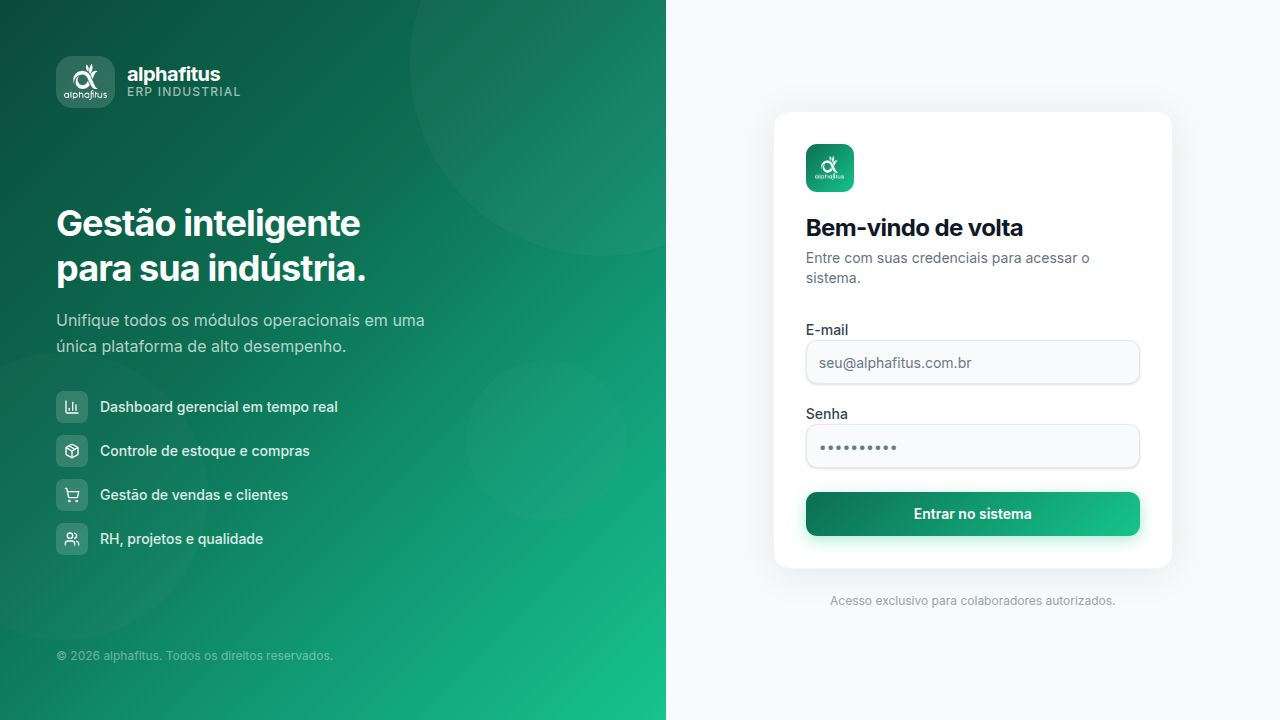
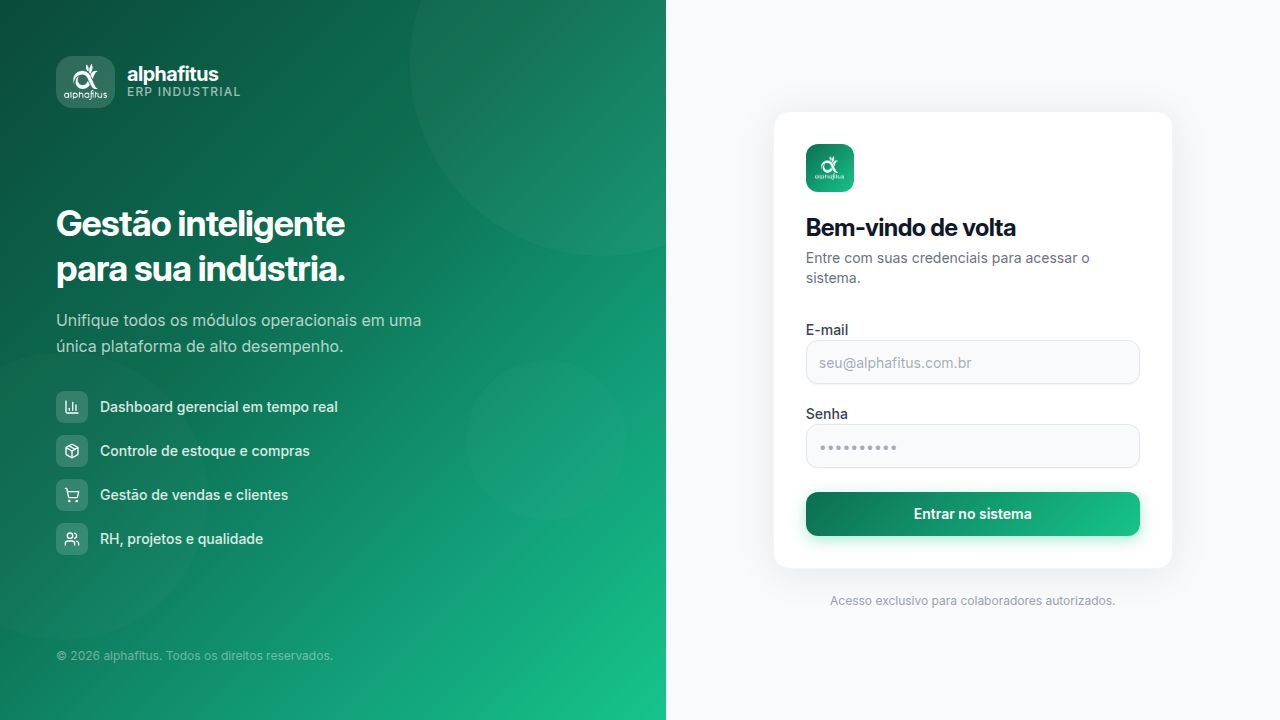
feat: let managers see and choose which modules appear in the executive report
Task: Let managers see which modules are included in the executive report

## What changed

### DB Schema (lib/db/src/schema/report-schedules.ts)
- Added `modules` JSON column to `report_schedules` table (nullable ReportModule[])
- Exported `REPORT_MODULES` const and `ReportModule` type
- Ran `pnpm --filter @user/db run push` to apply migration

### OpenAPI spec (lib/api-spec/openapi.yaml)
- Added optional `modules` array field (enum of 6 values) to both `ReportSchedule` and
  `ReportScheduleInput` schemas; ran codegen to regenerate hooks and Zod schemas

### API routes (artifacts/api-server/src/routes/relatorios.ts)
- POST + PUT /relatorios/schedules: accept, validate, and store `modules` from body
- Server-side validation rejects any module value not in the allowed enum
- Null stored when modules array is empty (backward-compatible — means "all modules")

### PDF builder (artifacts/api-server/src/routes/relatorios-pdf.ts)
- Added `modules?: string[] | null` to `PdfOptions`; empty/null → all modules active
- Added `inc(m)` helper to gate each section on its module
- "Indicadores Financeiros" + "Tendência Financeira" gated on `inc("financeiro")`
- Operational KPIs filtered per module (vendas, estoque, compras, rh, projetos)
- "Top 5 Clientes" gated on `inc("vendas")`, "Top 5 Produtos" on `inc("estoque")`

### Report scheduler (artifacts/api-server/src/lib/report-scheduler.ts)
- Fixed critical gap: `runScheduledSend` now accepts and passes `modules` to
[…]

diff --git a/artifacts/api-server/src/routes/relatorios-pdf.ts b/artifacts/api-server/src/routes/relatorios-pdf.ts
@@ -14,10 +14,14 @@ import PDFDocument from "pdfkit";
 
 type Period = "this_month" | "last_month" | "this_quarter" | "this_year";
 
+export const ALL_REPORT_MODULES = ["financeiro", "vendas", "estoque", "compras", "rh", "projetos"] as const;
+export type ReportModuleKey = typeof ALL_REPORT_MODULES[number];
+
 export interface PdfOptions {
   companyName?: string;
   logoBase64?: string | null;
   includeHeader?: boolean;
+  modules?: string[] | null;
 }
 
 const MONTH_LABELS = [
@@ -97,6 +101,12 @@ export async function buildReportPdf(period: Period, options: PdfOptions = {}): 
 
   const companyName = options.companyName?.trim() || "NEXUS ERP";
   const includeHeader = options.includeHeader !== false;
+
+  // Determine active modules — empty/null means all
+  const activeModules: Set<string> = (options.modules && options.modules.length > 0)
+    ? new Set(options.modules)
+    : new Set(ALL_REPORT_MODULES);
+  const inc = (m: string) => activeModules.has(m);
 
   let logoBuffer: Buffer | null = null;
   let logoFormat: string = "PNG";
@@ -324,55 +334,68 @@ export async function buildReportPdf(period: Period, options: PdfOptions = {}): 
 
     // ── Page 1 content ────────────────────────────────────────────────────────
 
-    // KPI 2-column grid — financial
-    sectionTitle("Indicadores Financeiros");
-
     const col1X = MARGIN;
     const col2X = MARGIN + (CONTENT_W - 8) / 2 + 8;
     const BOX_H = 52;
 
-    checkPageBreak(BOX_H * 2 + 16);
-    kpiBox(col1X, y, "Receita do Período", fmtBRL(revenueTotal), `vs. ant.: ${pctChange(revCur, revPrev)}`, CLR_GREEN);
-    kpiBox(col2X, y, "Despesas do Período", fmtBRL(expenseTotal), `vs. ant.: ${pctChange(expCur, expPrev)}`, CLR_RED);
-    y += BOX_H + 8;
+    // KPI 2-column grid — financial
+    if (inc("financeiro")) {
+      sectionTitle("Indicadores Financeiros");
 
-    const netColor = net >= 0 ? CLR_GREEN : CLR_RED;
-    const netLabel = net >= 0 ? "▲ Resultado Positivo" : "▼ Resultado Negativo";
-    kpiBox(col1X, y, "Saldo Líquido (Receita – Despesas)", fmtBRL(netBalance), netLabel, netColor);
-    y += BOX_H + 14;
+      checkPageBreak(BOX_H * 2 + 16);
+      kpiBox(col1X, y, "Receita do Período", fmtBRL(revenueTotal), `vs. ant.: ${pctChange(revCur, revPrev)}`, CLR_GREEN);
+      kpiBox(col2X, y, "Despesas do Período", fmtBRL(expenseTotal), `vs. ant.: ${pctChange(expCur, expPrev)}`, CLR_RED);
+      y += BOX_H + 8;
 
-    // Trend chart
-    sectionTitle("Tendência Financeira — Últimos 6 Meses");
-    checkPageBreak(110);
-    const chartH = drawBarChart(monthlyTrend, y);
-    y += chartH + 6;
+      const netColor = net >= 0 ? CLR_GREEN : CLR_RED;
+      const netLabel = net >= 0 ? "▲ Resultado Positivo" : "▼ Resultado Negativo";
+      kpiBox(col1X, y, "Saldo Líquido (Receita – Despesas)", fmtBRL(netBalance), netLabel, netColor);
+      y += BOX_H + 14;
 
-    // KPI grid — operational
-    sectionTitle("Indicadores Operacionais");
+      // Trend chart
+      sectionTitle("Tendência Financeira — Últimos 6 Meses");
+      checkPageBreak(110);
+      const chartH = drawBarChart(monthlyTrend, y);
+      y += chartH + 6;
+    }
 
+    // KPI grid — operational (filter by active modules)
     const opKpis = [
-      { label: "Pedidos em Aberto (backlog)", value: String(openSalesRow[0]?.count ?? 0), sub: "status: rascunho ou confirmado", color: CLR_BLUE_MID },
-      { label: "Novos Pedidos no Período", value: String(newSalesRow[0]?.count ?? 0), sub: "excluindo cancelados", color: CLR_BLUE },
-      { label: "Produtos com Estoque Baixo", value: String(lowStockRow[0]?.count ?? 0), sub: "abaixo do estoque mínimo", color: lowStockRow[0]?.count ? CLR_AMBER : CLR_GREEN },
-      { label: "Compras Pendentes", value: String(pendingPurchaseRow[0]?.count ?? 0), sub: "rascunho ou enviado", color: CLR_AMBER },
-      { label: "Funcionários Ativos", value: String(activeEmployeesRow[0]?.count ?? 0), sub: "colaboradores em atividade", color: CLR_BLUE_MID },
-      { label: "Projetos Ativos", value: String(activeProjectsRow[0]?.count ?? 0), sub: "projetos em andamento", color: CLR_BLUE },
+      ...(inc("vendas") ? [
+        { label: "Pedidos em Aberto (backlog)", value: String(openSalesRow[0]?.count ?? 0), sub: "status: rascunho ou confirmado", color: CLR_BLUE_MID },
+        { label: "Novos Pedidos no Período", value: String(newSalesRow[0]?.count ?? 0), sub: "excluindo cancelados", color: CLR_BLUE },
+      ] : []),
+      ...(inc("estoque") ? [
+        { label: "Produtos com Estoque Baixo", value: String(lowStockRow[0]?.count ?? 0), sub: "abaixo do estoque mínimo", color: lowStockRow[0]?.count ? CLR_AMBER : CLR_GREEN },
+      ] : []),
+      ...(inc("compras") ? [
+        { label: "Compras Pendentes", value: String(pendingPurchaseRow[0]?.count ?? 0), sub: "rascunho ou enviado", color: CLR_AMBER },
+      ] : []),
+      ...(inc("rh") ? [
+        { label: "Funcionários Ativos", value: String(activeEmployeesRow[0]?.count ?? 0), sub: "colaboradores em atividade", color: CLR_BLUE_MID },
+      ] : []),
+      ...(inc("projetos") ? [
+        { label: "Projetos Ativos", value: String(activeProjectsRow[0]?.count ?? 0), sub: "projetos em andamento", color: CLR_BLUE },
+      ] : []),
     ];
 
-    for (let i = 0; i < opKpis.length; i += 2) {
-      checkPageBreak(BOX_H + 8);
-      const left = opKpis[i];
-      const right = opKpis[i + 1];
-      kpiBox(col1X, y, left.label, left.value, left.sub, left.color);
-      if (right) {
-        kpiBox(col2X, y, right.label, right.value, right.sub, right.color);
+    if (opKpis.length > 0) {
+      sectionTitle("Indicadores Operacionais");
+      for (let i = 0; i < opKpis.length; i += 2) {
+        checkPageBreak(BOX_H + 8);
+        const left = opKpis[i];
+        const right = opKpis[i + 1];
+        kpiBox(col1X, y, left.label, left.value, left.sub, left.color);
+        if (right) {
+          kpiBox(col2X, y, right.label, right.value, right.sub, right.color);
+        }
+        y += BOX_H + 8;
       }
-      y += BOX_H + 8;
+      y += 6;
     }
-    y += 6;
 
     // Top 5 Clients table
-    if (topClientRows.length > 0) {
+    if (inc("vendas") && topClientRows.length > 0) {
       sectionTitle("Top 5 Clientes por Receita no Período");
 
       const colNo   = { label: "#",        x: MARGIN,       w: 22,                  align: "center" as const };
@@ -397,7 +420,7 @@ export async function buildReportPdf(period: Period, options: PdfOptions = {}): 
     }
 
     // Top 5 Products table
-    if (topProductRows.length > 0) {
+    if (inc("estoque") && topProductRows.length > 0) {
       sectionTitle("Top 5 Produtos por Movimentação no Período");
 
       const colNo   = { label: "#",             x: MARGIN,      w: 22,              align: "center" as const };

diff --git a/artifacts/erp/src/pages/relatorios.tsx b/artifacts/erp/src/pages/relatorios.tsx
@@ -86,7 +86,7 @@ import {
   useGetGoalAlertSettings,
   useUpdateGoalAlertSettings,
 } from "@workspace/api-client-react";
-import type { ReportSchedule } from "@workspace/api-client-react";
+import type { ReportSchedule, ReportScheduleInputModulesItem } from "@workspace/api-client-react";
 import { useToast } from "@/hooks/use-toast";
 import { useQueryClient } from "@tanstack/react-query";
 
@@ -997,6 +997,16 @@ const PERIOD_OPTIONS = [
   { value: "this_year", label: "Este ano" },
 ];
 
+const MODULE_OPTIONS = [
+  { value: "financeiro", label: "Financeiro" },
+  { value: "vendas",     label: "Vendas" },
+  { value: "estoque",    label: "Estoque" },
+  { value: "compras",    label: "Compras" },
+  { value: "rh",         label: "RH" },
+  { value: "projetos",   label: "Projetos" },
+] as const;
+const ALL_MODULE_VALUES = MODULE_OPTIONS.map((m) => m.value);
+
 function ScheduleDialog({
   schedule,
   onClose,
@@ -1015,6 +1025,17 @@ function ScheduleDialog({
   const [subject, setSubject] = useState(schedule?.subject ?? "Relatório Executivo — NEXUS ERP");
   const [message, setMessage] = useState(schedule?.message ?? "");
   const [active, setActive] = useState(schedule?.active ?? true);
+  const [modules, setModules] = useState<string[]>(
+    schedule?.modules && (schedule.modules as string[]).length > 0
+      ? (schedule.modules as string[])
+      : ALL_MODULE_VALUES,
+  );
+
+  function toggleModule(value: string) {
+    setModules((prev) =>
+      prev.includes(value) ? prev.filter((m) => m !== value) : [...prev, value],
+    );
+  }
 
   const { toast } = useToast();
   const queryClient = useQueryClient();
@@ -1056,6 +1077,7 @@ function ScheduleDialog({
       subject: subject.trim(),
       message: message.trim() || undefined,
       active,
+      modules: modules.length < ALL_MODULE_VALUES.length ? modules as ReportScheduleInputModulesItem[] : undefined,
     };
     if (isEdit) {
       updateSchedule({ id: schedule!.id, data: payload });
@@ -1167,6 +1189,31 @@ function ScheduleDialog({
           />
         </div>
 
+        <div className="space-y-2">
+          <Label>Módulos incluídos no relatório</Label>
+          <div className="grid grid-cols-3 gap-2">
+            {MODULE_OPTIONS.map((mod) => (
+              <div key={mod.value} className="flex items-center gap-2">
+                <Checkbox
+                  id={`mod-${mod.value}`}
+                  checked={modules.includes(mod.value)}
+                  onCheckedChange={() => toggleModule(mod.value)}
+                />
+                <Label htmlFor={`mod-${mod.value}`} className="cursor-pointer font-normal">
+                  {mod.label}
+                </Label>
+              </div>
+            ))}
+          </div>
+          <p className="text-xs text-muted-foreground">
+            {modules.length === ALL_MODULE_VALUES.length
+              ? "Todos os módulos serão incluídos."
+              : modules.length === 0
+                ? "Nenhum módulo selecionado — todos serão incluídos."
+                : `${modules.length} de ${ALL_MODULE_VALUES.length} módulos selecionados.`}
+          </p>
+        </div>
+
         <div className="flex items-center gap-2">
           <input
             type="checkbox"
@@ -1253,17 +1300,26 @@ function ScheduleSection({ isAdmin }: { isAdmin: boolean }) {
                 <TableRow>
                   <TableHead>Recorrência</TableHead>
                   <TableHead>Período</TableHead>
+                  <TableHead>Módulos</TableHead>
                   <TableHead>Destinatários</TableHead>
                   <TableHead>Status</TableHead>
                   {isAdmin && <TableHead className="text-right">Ações</TableHead>}
                 </TableRow>
               </TableHeader>
               <TableBody>
-                {schedules?.map((s) => (
+                {schedules?.map((s) => {
+                  const mods = s.modules as string[] | null | undefined;
+                  const modLabels = (mods && mods.length > 0 && mods.length < ALL_MODULE_VALUES.length)
+                    ? mods.map((v) => MODULE_OPTIONS.find((m) => m.value === v)?.label ?? v).join(", ")
+                    : "Todos";
+                  return (
                   <TableRow key={s.id}>
                     <TableCell className="text-sm font-medium">{describeSchedule(s)}</TableCell>
                     <TableCell className="text-sm text-muted-foreground">{periodLabel(s.period)}</TableCell>
-                    <TableCell className="text-sm text-muted-foreground max-w-[200px] truncate">{s.recipients}</TableCell>
+                    <TableCell className="text-sm text-muted-foreground max-w-[160px]">
+                      <span title={modLabels} className="block truncate">{modLabels}</span>
+                    </TableCell>
+                    <TableCell className="text-sm text-muted-foreground max-w-[160px] truncate">{s.recipients}</TableCell>
                     <TableCell>
                       <span className={`px-2 py-0.5 rounded text-xs font-medium ${s.active ? "bg-green-100 text-green-700" : "bg-gray-100 text-gray-500"}`}>
                         {s.active ? "Ativo" : "Inativo"}
@@ -1292,7 +1348,8 @@ function ScheduleSection({ isAdmin }: { isAdmin: boolean }) {
                       </TableCell>
                     )}
                   </TableRow>
-                ))}
+                  );
+                })}
               </TableBody>
             </Table>
           )}

diff --git a/artifacts/api-server/src/routes/relatorios.ts b/artifacts/api-server/src/routes/relatorios.ts
@@ -799,6 +799,7 @@ router.post("/relatorios/schedules", async (req: Request, res: Response): Promis
     subject?: string;
     message?: string;
     active?: boolean;
+    modules?: string[];
   };
 
   const { frequency, hour, minute, period, recipients, subject } = body;
@@ -835,6 +836,14 @@ router.post("/relatorios/schedules", async (req: Request, res: Response): Promis
     res.status(400).json({ error: "dayOfMonth deve ser entre 1 e 28 para frequência mensal" });
     return;
   }
+  const VALID_MODULES = ["financeiro", "vendas", "estoque", "compras", "rh", "projetos"] as const;
+  if (Array.isArray(body.modules) && body.modules.length > 0) {
+    const invalid = body.modules.filter((m: string) => !(VALID_MODULES as readonly string[]).includes(m));
+    if (invalid.length > 0) {
+      res.status(400).json({ error: `Módulos inválidos: ${invalid.join(", ")}` });
+      return;
+    }
+  }
 
   const [created] = await db.insert(reportSchedulesTable).values({
     frequency: frequency as "weekly" | "monthly",
@@ -847,6 +856,7 @@ router.post("/relatorios/schedules", async (req: Request, res: Response): Promis
     subject: subject.trim(),
     message: body.message?.trim() || null,
     active: body.active !== false,
+    modules: Array.isArray(body.modules) && body.modules.length > 0 ? body.modules as import("@workspace/db").InsertReportSchedule["modules"] : null,
   }).returning();
 
   res.status(201).json(created);
@@ -869,6 +879,7 @@ router.put("/relatorios/schedules/:id", async (req: Request, res: Response): Pro
     subject?: string;
     message?: string;
     active?: boolean;
+    modules?: string[];
   };
 
   const { frequency, hour, minute, period, recipients, subject } = body;
@@ -891,6 +902,13 @@ router.put("/relatorios/schedules/:id", async (req: Request, res: Response): Pro
   if (!subject || typeof subject !== "string" || subject.trim() === "") {
     res.status(400).json({ error: "subject é obrigatório" }); return;
   }
+  const VALID_MODULES_PUT = ["financeiro", "vendas", "estoque", "compras", "rh", "projetos"] as const;
+  if (Array.isArray(body.modules) && body.modules.length > 0) {
+    const invalid = body.modules.filter((m: string) => !(VALID_MODULES_PUT as readonly string[]).includes(m));
+    if (invalid.length > 0) {
+      res.status(400).json({ error: `Módulos inválidos: ${invalid.join(", ")}` }); return;
+    }
+  }
 
   const [updated] = await db
     .update(reportSchedulesTable)
@@ -905,6 +923,7 @@ router.put("/relatorios/schedules/:id", async (req: Request, res: Response): Pro
       subject: subject.trim(),
       message: body.message?.trim() || null,
       active: body.active !== false,
+      modules: Array.isArray(body.modules) && body.modules.length > 0 ? body.modules as import("@workspace/db").InsertReportSchedule["modules"] : null,
       updatedAt: new Date(),
     })
     .where(eq(reportSchedulesTable.id, id))

diff --git a/lib/db/src/schema/report-schedules.ts b/lib/db/src/schema/report-schedules.ts
@@ -5,7 +5,11 @@ import {
   integer,
   text,
   boolean,
+  json,
 } from "drizzle-orm/pg-core";
+
+export const REPORT_MODULES = ["financeiro", "vendas", "estoque", "compras", "rh", "projetos"] as const;
+export type ReportModule = typeof REPORT_MODULES[number];
 
 export const reportSchedulesTable = pgTable("report_schedules", {
   id: serial("id").primaryKey(),
@@ -23,6 +27,7 @@ export const reportSchedulesTable = pgTable("report_schedules", {
   subject: text("subject").notNull(),
   message: text("message"),
   active: boolean("active").notNull().default(true),
+  modules: json("modules").$type<ReportModule[]>(),
   createdAt: timestamp("created_at", { withTimezone: true }).notNull().defaultNow(),
   updatedAt: timestamp("updated_at", { withTimezone: true })
     .notNull()

diff --git a/artifacts/api-server/src/lib/report-scheduler.ts b/artifacts/api-server/src/lib/report-scheduler.ts
@@ -42,6 +42,7 @@ async function runScheduledSend(
   recipients: string[],
   subject: string,
   message: string | null | undefined,
+  modules: string[] | null | undefined,
 ): Promise<void> {
   const range = getDateRange(period);
   const periodLabel = range.label;
@@ -61,7 +62,7 @@ async function runScheduledSend(
   }
 
   try {
-    const pdfBuffer = await buildReportPdf(period);
+    const pdfBuffer = await buildReportPdf(period, { modules: modules ?? null });
     const filename = `relatorio-executivo-${periodLabel.toLowerCase().replace(/\//g, "-")}.pdf`;
 
     await sendEmail({
@@ -154,6 +155,7 @@ async function checkAndFireSchedules(): Promise<void> {
         recipients,
         schedule.subject,
         schedule.message,
+        schedule.modules as string[] | null,
       );
     }
   } catch (err) {